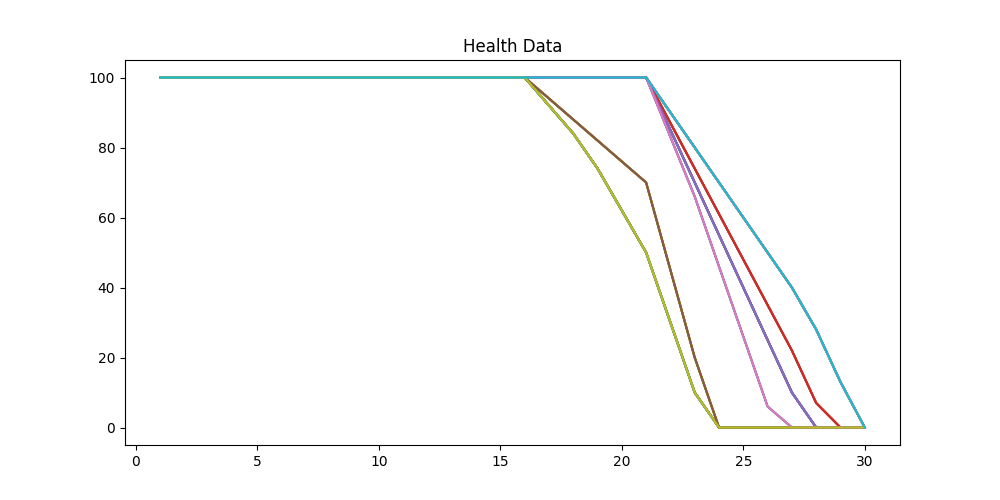
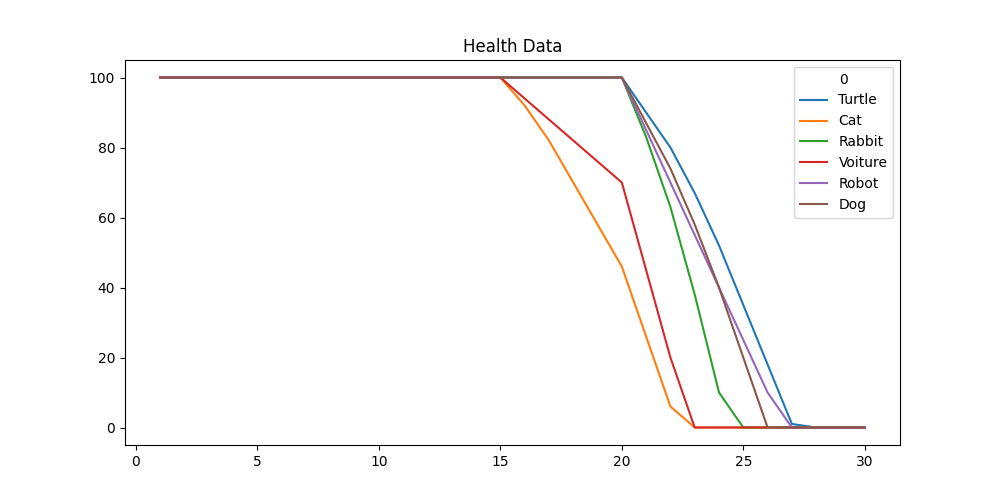
modif simulation et ajout date derniere connexion

Changed region(s): [[0.155, 0.15, 0.868, 0.87], [0.837, 0.18, 0.899, 0.42]]

diff --git a/demo/src/main/java/com/example/model/TamagotchiSimulation.java b/demo/src/main/java/com/example/model/TamagotchiSimulation.java
@@ -40,6 +40,35 @@ public void generateTamagotchis(int numTamagotchis) {
     Random random = new Random();
     TypeTamagotchi[] types = TypeTamagotchi.values();
 
+    for(int i = 0; i < 6; i++){
+        TypeTamagotchi type = types[i];
+        Tamagotchi tamagotchi;
+
+        switch(type){
+            case CAT:
+                tamagotchi = new Cat();
+                break;
+            case ROBOT:
+                tamagotchi = new Robot();
+                break;
+            case DOG:
+                tamagotchi = new Dog();
+                break;
+            case RABBIT:
+                tamagotchi = new Rabbit();
+                break;
+            case VOITURE:
+                tamagotchi = new Voiture();
+                break;
+            case TURTLE:
+                tamagotchi = new Turtle();
+                break;
+            default:
+                throw new IllegalArgumentException("Invalid Tamagotchi type: " + type);
+        }
+        tamagotchis.add(tamagotchi);
+    }
+    /*
     for (int i = 0; i < numTamagotchis; i++) {
         // Select a random type
         TypeTamagotchi type = types[random.nextInt(types.length)];
@@ -71,17 +100,18 @@ public void generateTamagotchis(int numTamagotchis) {
 
         tamagotchis.add(tamagotchi);
     }
+    */
 }
 
-    public HashMap<Integer, ArrayList<Integer>> runSimulation() {
-        HashMap<Integer, ArrayList<Integer>> healthData = new HashMap<>();
+    public HashMap<String, ArrayList<Integer>> runSimulation() {
+        HashMap<String, ArrayList<Integer>> healthData = new HashMap<>();
         generateTamagotchis(40);
 
         for(Tamagotchi tamagotchi : tamagotchis){
             Session new_tama_session = Session.init_new_session(tamagotchi.toString(),0000);
             tamagotchi.init_new_tamagothi();
             tamagotchi.setSession(new_tama_session);
-            healthData.put(tamagotchi.hashCode(), new ArrayList<Integer>());
+            healthData.put(tamagotchi.getClass().getSimpleName(), new ArrayList<Integer>());
         }
 
         // 1 update toutes les 2h30
@@ -95,7 +125,7 @@ public void generateTamagotchis(int numTamagotchis) {
             for(Tamagotchi tamagotchi : tamagotchis){
                 tamagotchi.updateState();
                 tamagotchi.printAttributes();
-                healthData.get(tamagotchi.hashCode()).add(Integer.parseInt(tamagotchi.getAttributes().get(AttributeConstant.LIFE)));
+                healthData.get(tamagotchi.getClass().getSimpleName()).add(Integer.parseInt(tamagotchi.getAttributes().get(AttributeConstant.LIFE)));
             }
         }
 
@@ -106,7 +136,7 @@ public void generateTamagotchis(int numTamagotchis) {
 
     public void generatePlots() {
 
-        HashMap<Integer, ArrayList<Integer>> healthData = runSimulation();
+        HashMap<String, ArrayList<Integer>> healthData = runSimulation();
 
 
         healthData.forEach((tamagotchi, health) -> {

diff --git a/demo/src/main/java/com/example/controller/ContinuePartyController.java b/demo/src/main/java/com/example/controller/ContinuePartyController.java
@@ -32,6 +32,7 @@ import javafx.scene.layout.Priority;
 import javafx.scene.layout.Region;
 import javafx.stage.Stage;
 import javafx.util.converter.IntegerStringConverter;
+import java.util.Date;
 
 public class ContinuePartyController implements Initializable {
 
@@ -58,6 +59,7 @@ public class ContinuePartyController implements Initializable {
     public class SessionHBox extends HBox {
 
         Label nameLabel;
+        Label lastConLabel;
         ImageView imageView;
         Button continuePartyButton;
 
@@ -70,6 +72,11 @@ public class ContinuePartyController implements Initializable {
 
             nameLabel = new Label(session.getNom_donner_tamagotchi());
             nameLabel.setStyle("-fx-font-size: 14px; -fx-font-family: Arial;"); // Change font size and family
+
+            Date dateLastCon = new Date(session.getDateDerniereConnexion());
+            lastConLabel = new Label(dateLastCon.toString());
+            lastConLabel.setStyle("-fx-font-size: 14px; -fx-font-family: Arial;"); // Change font size and family
+
             
             continuePartyButton = new Button("Continue Party");
             continuePartyButton.getStyleClass().add("continue-party-button");
@@ -79,7 +86,7 @@ public class ContinuePartyController implements Initializable {
             Region spacer = new Region();
             HBox.setHgrow(spacer, Priority.ALWAYS); // This will make the spacer grow and push the button to the right
     
-            this.getChildren().addAll(imageView, nameLabel, spacer, continuePartyButton); // Add spacer before the button
+            this.getChildren().addAll(imageView, nameLabel, lastConLabel, spacer, continuePartyButton); // Add spacer before the button
             this.getStyleClass().add("session-hbox");
             this.setSpacing(20);
             this.setAlignment(Pos.CENTER_LEFT);

diff --git a/plot.py b/plot.py
@@ -8,7 +8,7 @@ df = pd.read_csv('healthData.csv', header=None)
 df.set_index(0, inplace=True)
 
 # Plot the data
-df.T.plot(kind='line', legend=False, figsize=(10, 5), title='Health Data')
+df.T.plot(kind='line', legend=True, figsize=(10, 5), title='Health Data')
 
 
 
